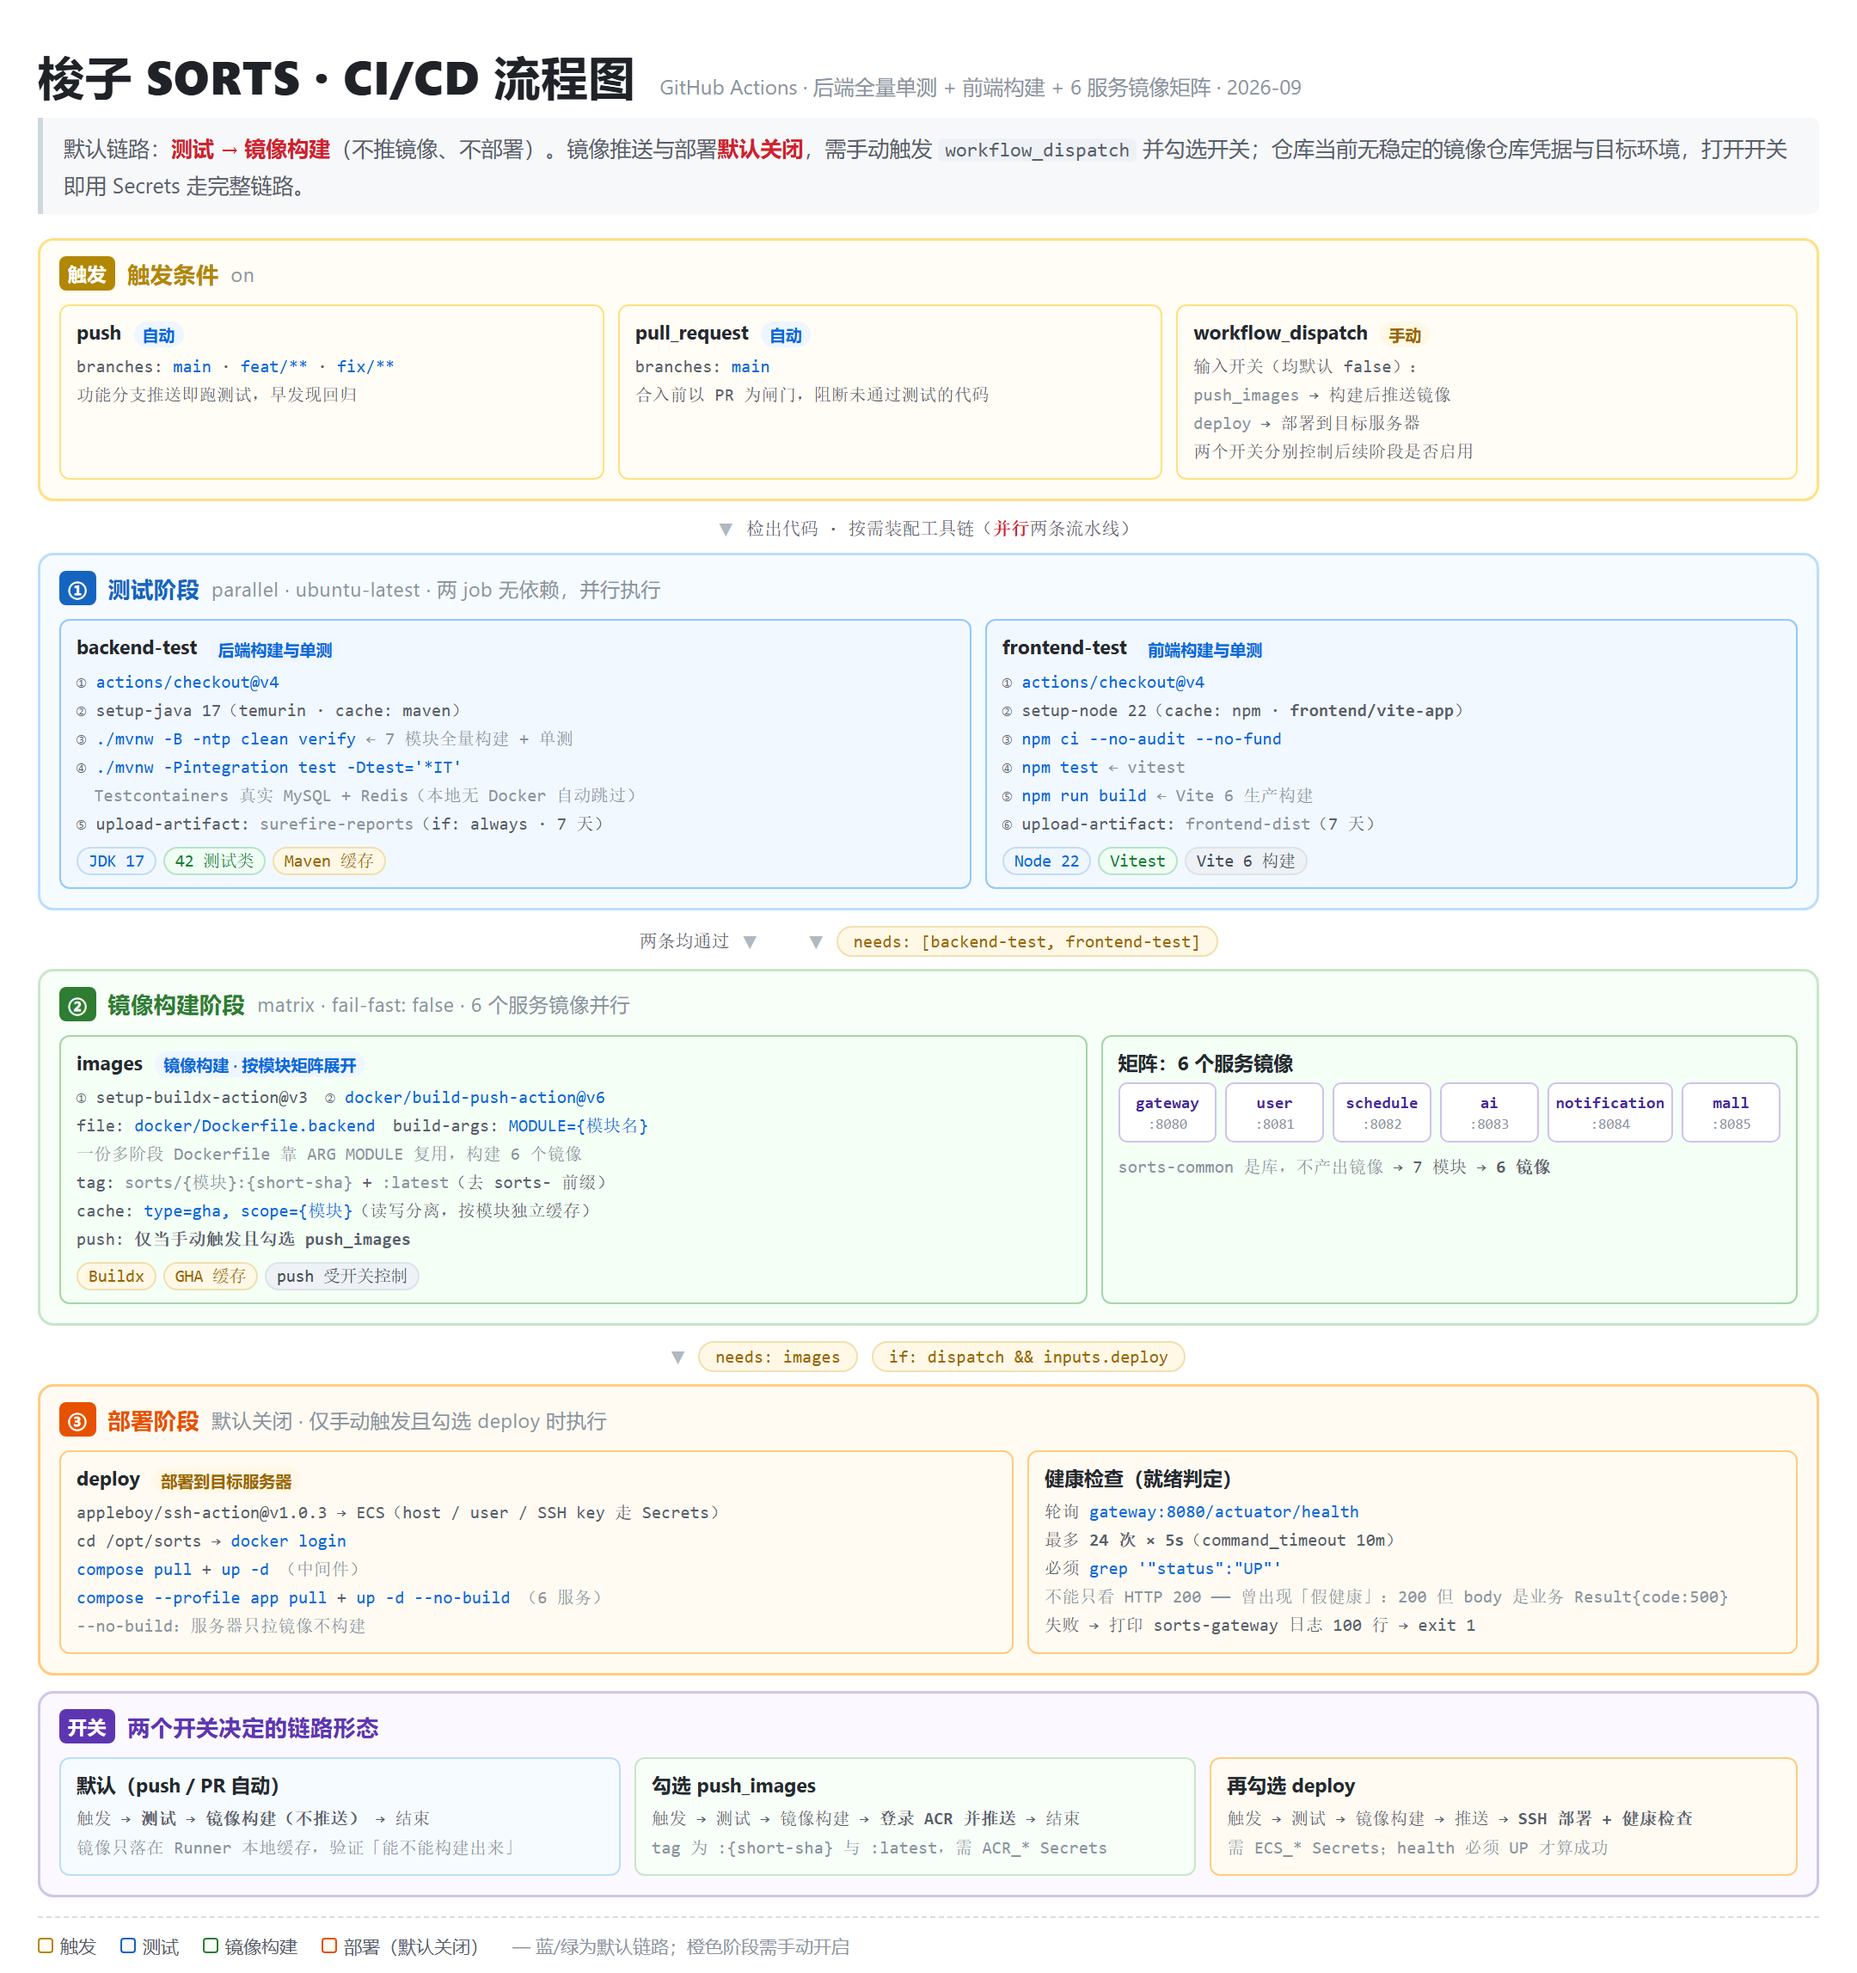
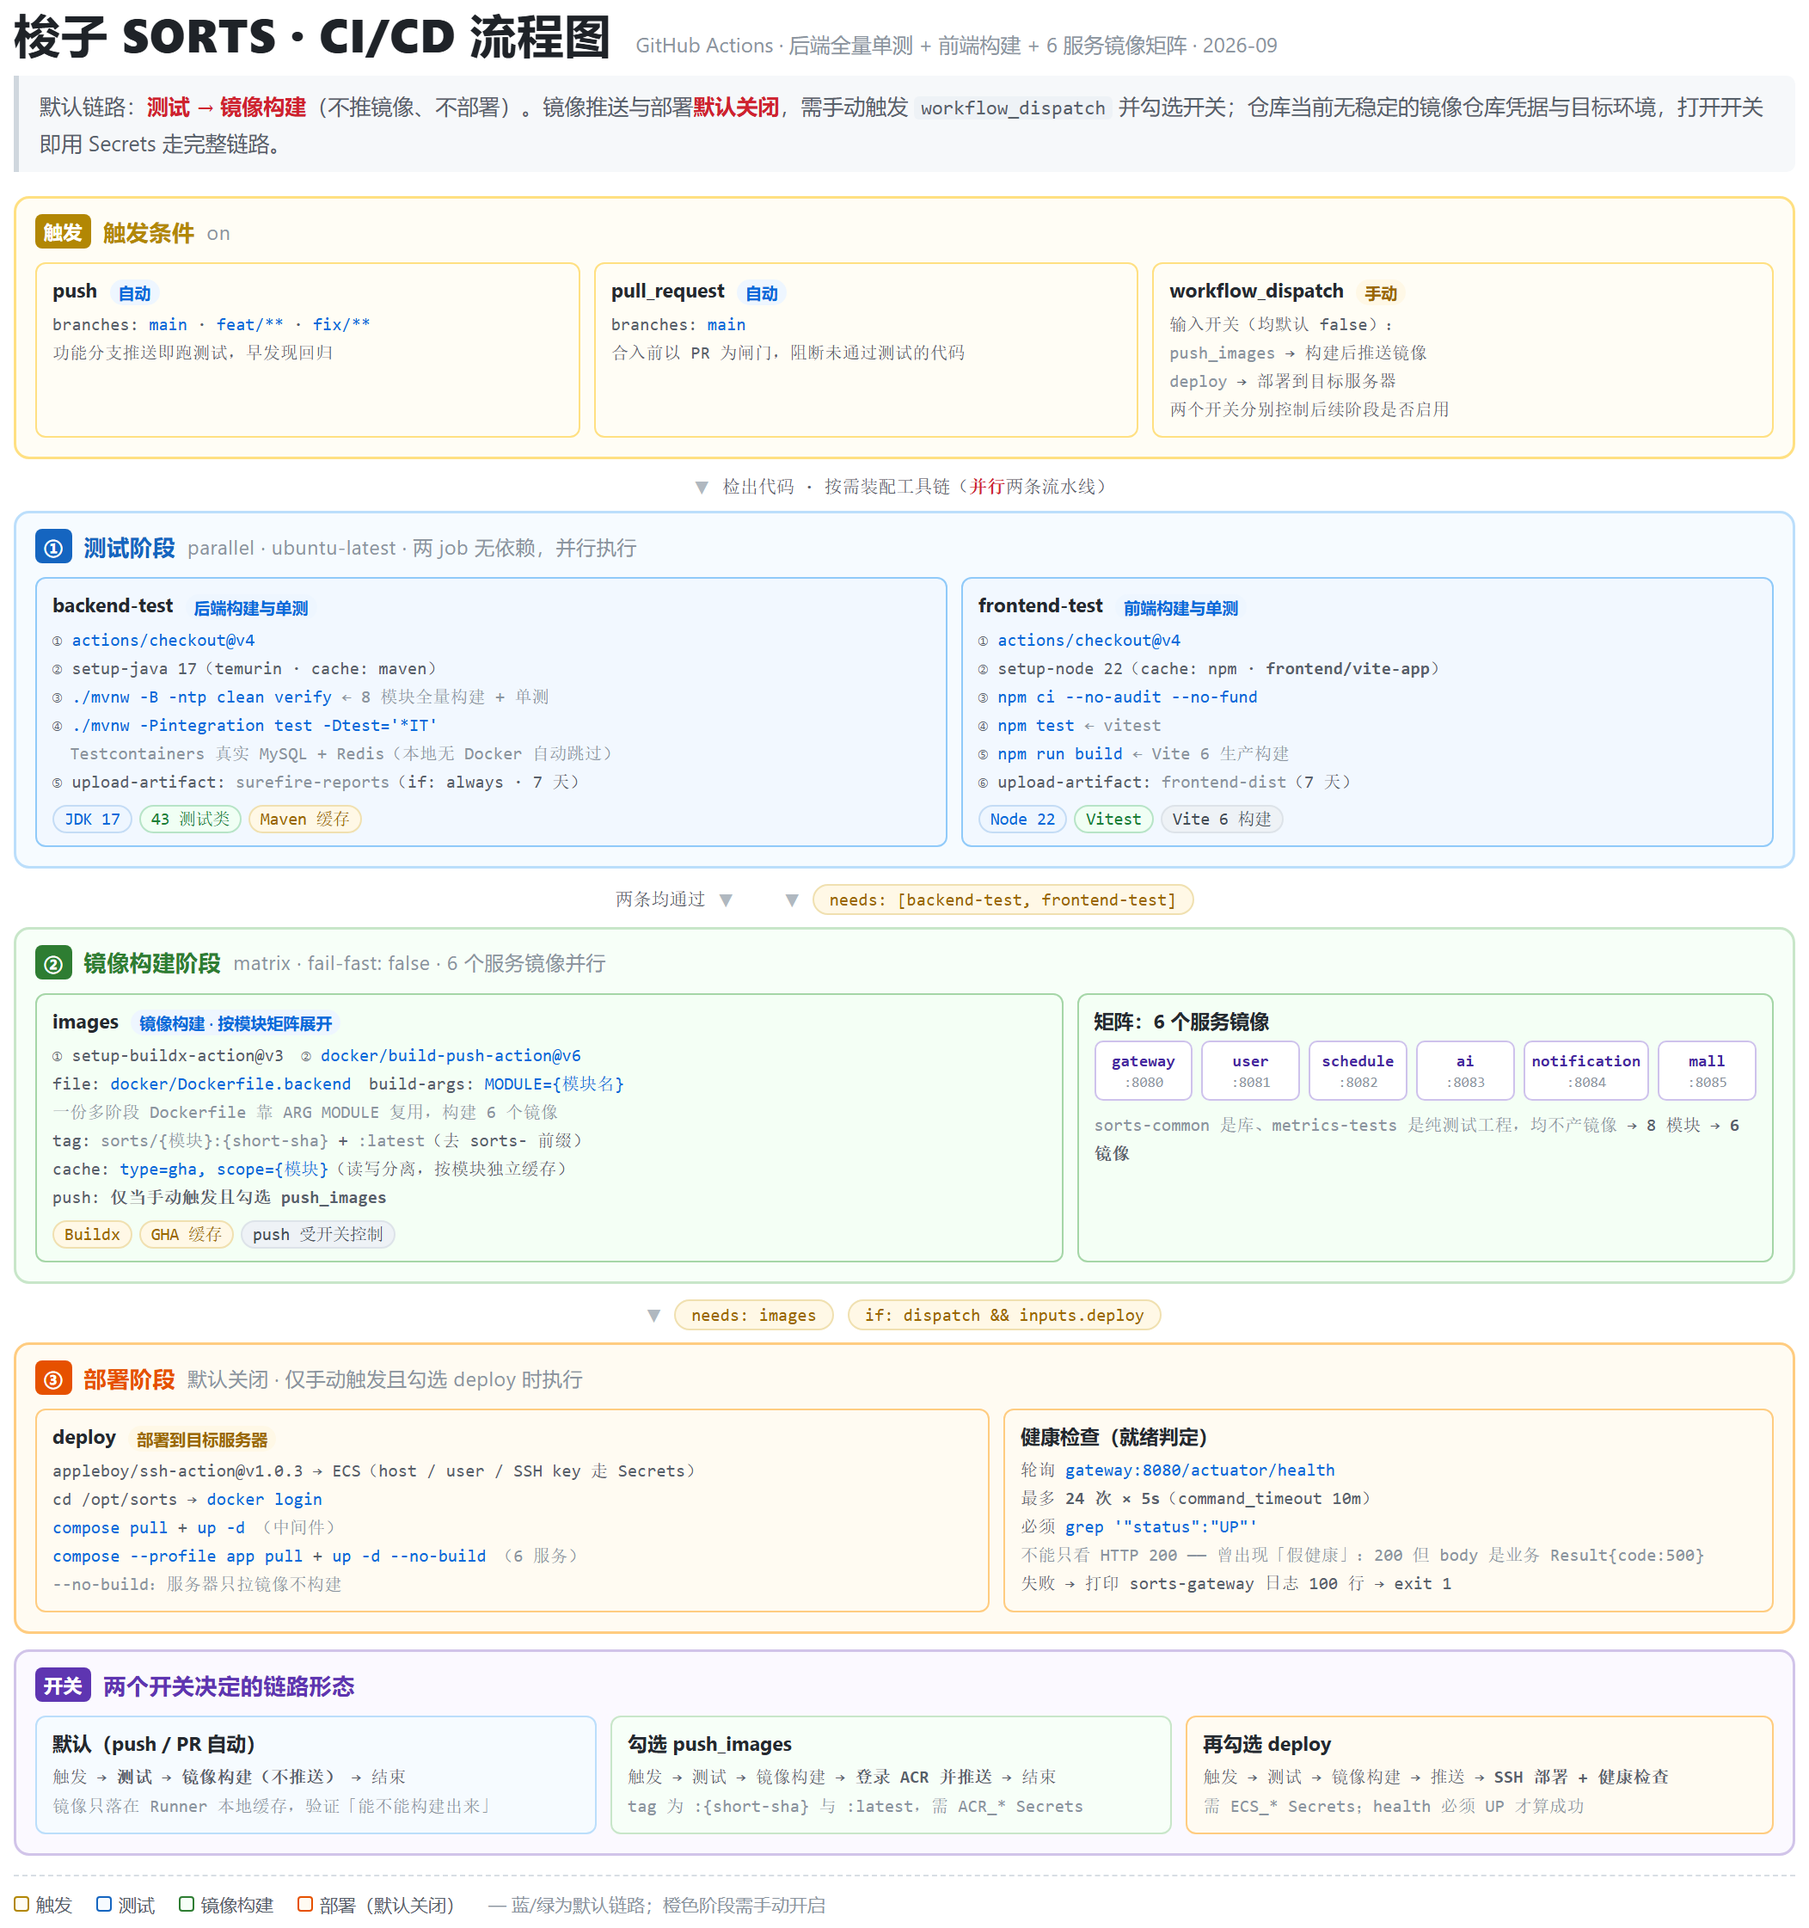
docs: 同步数字口径与架构/CI 图表（测试 43 类 396 例、8 个 Maven 模块、Redis 6379）
- PROGRESS / ide-setup：Redis 6380 归正为 6379（容器化迁回，6380 为已停用的 WSL 原生实例）
- 架构图：测试类 42 → 43（补 sorts-metrics-tests），并补回缺失的 DOCTYPE 前导尖括号
  —— 此前 "!DOCTYPE html>" 被当正文渲染进图片顶部
- CI 流程图：42 测试类 → 43；模块 7 → 8（8 = 5 业务 + 1 网关 + 1 公共库 + 1 测试工程），
  补注 sorts-common 与 sorts-metrics-tests 均不产镜像
- 两张图按 2x 重渲染（Chrome headless + scripts/png-trim.py），与 HTML 源保持同步

Changed region(s): [[0.0, 0.0, 1.0, 0.9991], [0.9577, 0.1249, 1.0, 0.2498]]

diff --git a/docs/assets/ci-flow.html b/docs/assets/ci-flow.html
@@ -161,12 +161,12 @@
       <div class="bl" data-page-node-id="h0pLJsAD0t85oUNnDr0AWJ">
         ① <em data-page-node-id="H0POzzvyiUoZFe4qrzUuwF">actions/checkout@v4</em><br data-page-node-id="AkmMwIzyp5CuUjqSc9By9z">
         ② setup-java 17（temurin · cache: maven）<br data-page-node-id="GjNveHPrY2CpeXzusGbfPd">
-        ③ <em data-page-node-id="QrE8e8ZqD0J2FpWUTR2utq">./mvnw -B -ntp clean verify</em> <s data-page-node-id="4MiEQ6EMGPdDxcjDy5peKS">← 7 模块全量构建 + 单测</s><br data-page-node-id="vsyUwko6Yg6TFw9lAgcXbx">
+        ③ <em data-page-node-id="QrE8e8ZqD0J2FpWUTR2utq">./mvnw -B -ntp clean verify</em> <s data-page-node-id="4MiEQ6EMGPdDxcjDy5peKS">← 8 模块全量构建 + 单测</s><br data-page-node-id="vsyUwko6Yg6TFw9lAgcXbx">
         ④ <em data-page-node-id="HYqD0lBrfjVMtTvI8R2HQh">./mvnw -Pintegration test -Dtest='*IT'</em><br data-page-node-id="nFoMysBSmFKNksHBdUeDNR">
         <s data-page-node-id="naCUFjez5wFW8K3cmzD2oF">　Testcontainers 真实 MySQL + Redis（本地无 Docker 自动跳过）</s><br data-page-node-id="HWM2uZmYbvlJ188PN8pIGX">
         ⑤ upload-artifact: <s data-page-node-id="jJEXPVVsNPYPGyKfUapCDz">surefire-reports</s>（if: always · 7 天）
       </div>
-      <div class="chips" data-page-node-id="p8YDdoXTEsof1SuBlAaOFG"><span class="chip cool" data-page-node-id="8G3E7H3EMf0EhwK1Ahrjop">JDK 17</span><span class="chip ok" data-page-node-id="cMppAEwrNHtsx8LZPDwVFR">42 测试类</span><span class="chip warm" data-page-node-id="9osl6CvWIWNZyqd9hsJDmI">Maven 缓存</span></div>
+      <div class="chips" data-page-node-id="p8YDdoXTEsof1SuBlAaOFG"><span class="chip cool" data-page-node-id="8G3E7H3EMf0EhwK1Ahrjop">JDK 17</span><span class="chip ok" data-page-node-id="cMppAEwrNHtsx8LZPDwVFR">43 测试类</span><span class="chip warm" data-page-node-id="9osl6CvWIWNZyqd9hsJDmI">Maven 缓存</span></div>
     </div>
     <div class="box job" style="flex:.94" data-page-node-id="NT4FNNQICGWzoVVJP2zas5">
       <div class="bt" data-page-node-id="migMhMhNbnthfYQgCNWISf">frontend-test <span class="badge" style="background:#eef6ff;color:#0969da" data-page-node-id="ASfCIb4ryNacySf2jWbZjn">前端构建与单测</span></div>
@@ -216,7 +216,7 @@
         <div class="mod" data-page-node-id="GUETr7WF8mcBpglRHFhvs7">mall<span class="im" data-page-node-id="xuyLGRdAUZ8BsTqycrFaGG">:8085</span></div>
       </div>
       <div class="bl" style="margin-top:6px" data-page-node-id="WhoIbfLmwsjYO9bKc8MrhA">
-        <s data-page-node-id="AGCY3agYAJHTSYDFHO08Dd">sorts-common 是库，不产出镜像</s> → 7 模块 → <b data-page-node-id="RbV7F3HhDHJ0B7QEuMEJAd">6 镜像</b>
+        <s data-page-node-id="AGCY3agYAJHTSYDFHO08Dd">sorts-common 是库、metrics-tests 是纯测试工程，均不产镜像</s> → 8 模块 → <b data-page-node-id="RbV7F3HhDHJ0B7QEuMEJAd">6 镜像</b>
       </div>
     </div>
   </div>

diff --git a/docs/assets/architecture.html b/docs/assets/architecture.html
@@ -1,4 +1,4 @@
-!DOCTYPE html>
+<!DOCTYPE html>
 <html lang="zh-CN" data-page-node-id="E09O6BDP3yfxHXHR7Hxeqf">
 <head data-page-node-id="Yau97ttRthGjknegacsQny">
 <meta charset="UTF-8" data-page-node-id="KNgm4hF1G6iqYtBMh86GK7">
@@ -292,7 +292,7 @@
     </div>
     <div class="box" style="flex:.92" data-page-node-id="2K6wdjv6OWXaKrg10B7kkh">
       <div class="bt" data-page-node-id="t03PVu8ORgufbaDykJND6J">测试</div>
-      <div class="bl" data-page-node-id="oP11G7wwiIIxzpQWR3SKas"><b data-page-node-id="GJh3JV2ImAC7KzVVkkMDYk">42 个测试类</b>（41 单测 + 1 集成）<br data-page-node-id="Y4hE5hrMgCrQIFdVTa72BZ">JUnit 5 + Mockito + MockMvc<br data-page-node-id="wupvELBRmXcozEZnP4hoVR">Testcontainers 1.20.4（真实 MySQL/Redis）<br data-page-node-id="1FM3xsrwExHhqN29j62VFh">Vitest（前端）</div>
+      <div class="bl" data-page-node-id="oP11G7wwiIIxzpQWR3SKas"><b data-page-node-id="GJh3JV2ImAC7KzVVkkMDYk">43 个测试类</b>（41 单测 + 1 集成 + 1 指标）<br data-page-node-id="Y4hE5hrMgCrQIFdVTa72BZ">JUnit 5 + Mockito + MockMvc<br data-page-node-id="wupvELBRmXcozEZnP4hoVR">Testcontainers 1.20.4（真实 MySQL/Redis）<br data-page-node-id="1FM3xsrwExHhqN29j62VFh">Vitest（前端）</div>
     </div>
     <div class="box" style="flex:1.05" data-page-node-id="zNaVLOfRdHuDOFoXSAOKG7">
       <div class="bt" data-page-node-id="MDVXaDLAyob5DVweTNMHtd">容器化（单文件 compose + profiles）</div>

diff --git a/docs/PROGRESS.md b/docs/PROGRESS.md
@@ -33,7 +33,7 @@
 | ORM                  | MyBatis-Plus 3.5.7     | `mybatis-plus-spring-boot3-starter`             |
 | 分布式锁                 | Redisson 3.36.0（M5 引入） |                                                 |
 | 数据库                  | MySQL 8                | WSL Docker，**localhost:3307**（root / sorts_dev） |
-| 缓存                   | Redis 7                | 端口 **6380**（默认端口 +1），WSL Docker                 |
+| 缓存                   | Redis 7（redis-stack）   | 端口 **6379**，WSL Docker（容器化后已从 6380 迁回；见第五·已知限制 2.1） |
 | 消息队列                 | RabbitMQ 3.13          | WSL Docker，5672 / 15672（sorts / sorts_dev）      |
 | 密码加密                 | spring-security-crypto | 只引 crypto，不引整套 Security                         |
 | AI 模型                | **DeepSeek**           | 用户已确认                                           |
@@ -645,7 +645,7 @@ D:\SORTS(梭子)/
    （Conventional Commits）。GitHub 推送由用户本人执行，AI 只负责本地提交。
 4. 每个模块必须配套单元测试，与业务代码同步交付。
 5. 中间件全部跑在 WSL Docker 中，Windows 侧用 localhost 访问：
-   MySQL 3307（root/sorts_dev）、Redis 6380、Nacos 8848、RabbitMQ 5672。
+   MySQL 3307（root/sorts_dev）、Redis 6379（redis-stack，口令见 docker/.env）、Nacos 8848、RabbitMQ 5672。
    一键启动：在 WSL 内执行 bash scripts/wsl-middleware.sh start
    新增建表脚本后补执行：bash scripts/wsl-middleware.sh sql
 6. 接口开发前先查 api-spec.json 对齐契约。

diff --git a/docs/ide-setup.md b/docs/ide-setup.md
@@ -117,7 +117,7 @@ IDEA 里已注册的 17 叫 **`ms-17`**（对应 `E:\Java\java17`）。
 
 ```bash
 # 在 WSL 内执行
-bash scripts/wsl-middleware.sh start     # Redis 6380 / MySQL 3307 / Nacos 8848 / RabbitMQ 5672
+bash scripts/wsl-middleware.sh start     # Redis 6379 / MySQL 3307 / Nacos 8848 / RabbitMQ 5672
 bash scripts/wsl-middleware.sh sql       # 首次或新增模块建表脚本后补执行
 ```
 
@@ -213,7 +213,7 @@ mvnw.cmd clean install        # CMD / PowerShell
 ```
 SCHEDULE_PORT=9082
 MYSQL_HOST=localhost;MYSQL_PORT=3307;MYSQL_USER=root;MYSQL_PASSWORD=sorts_dev
-REDIS_PORT=6380
+REDIS_PORT=6379
 NACOS_ENABLED=false        # 本地联调不想起 Nacos 时关掉服务注册
 REWARD_ENABLED=false       # 关掉落梭奖励，避免依赖 sorts-user
 ```
